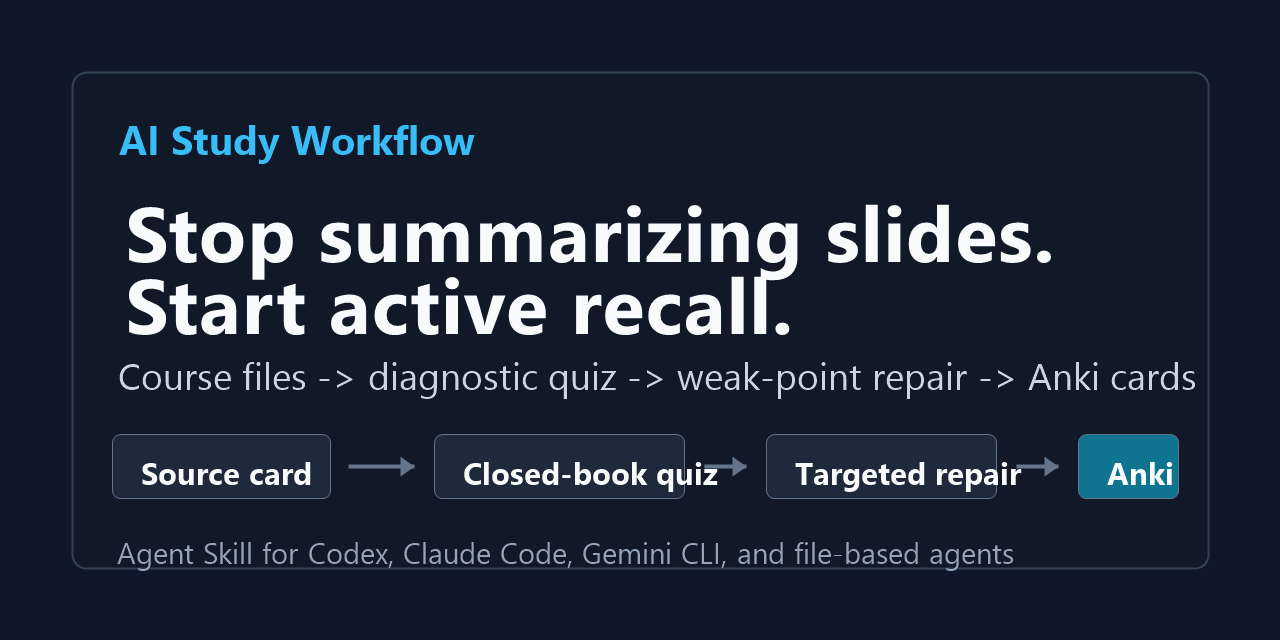
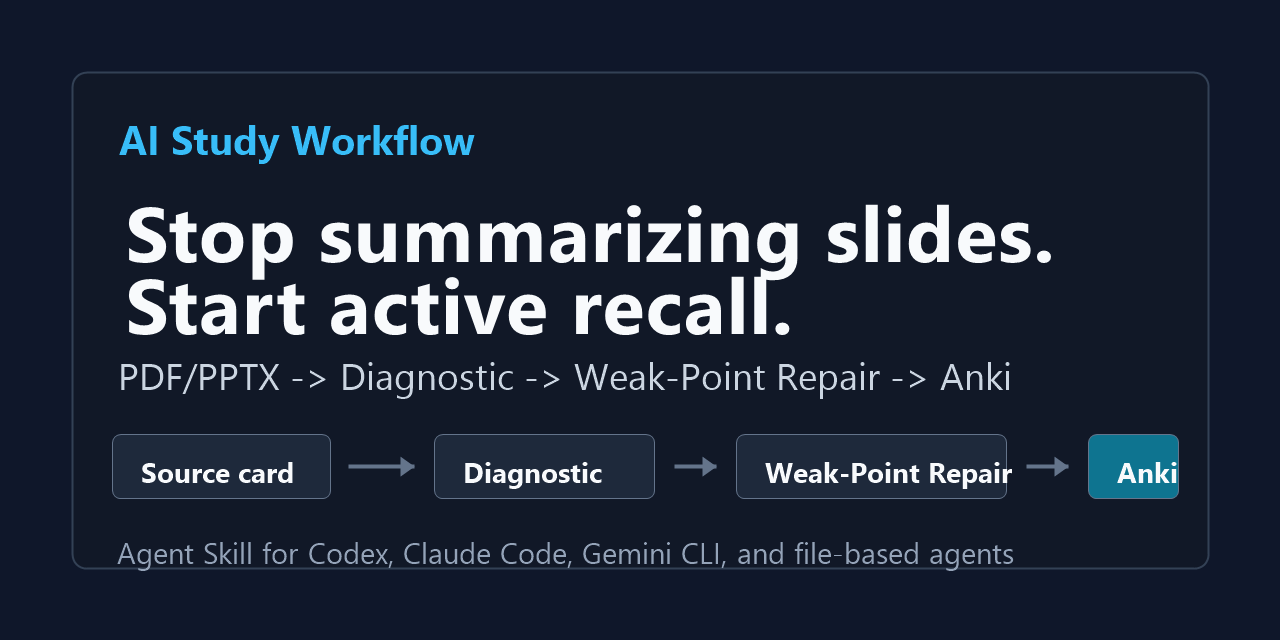
Refine open source onboarding materials

Changed region(s): [[0.0938, 0.5625, 0.9375, 0.625], [0.3438, 0.6875, 0.9375, 0.7812], [0.0938, 0.7188, 0.25, 0.7812]]

diff --git a/README.md b/README.md
@@ -4,9 +4,9 @@
 ![License](https://img.shields.io/github/license/rhyme17/ai-study-workflow)
 ![Status](https://img.shields.io/badge/status-experimental-orange)
 
-Turn lecture slides and PDFs into active-recall study sessions: diagnostic quiz first, weak-point repair second, Anki cards last.
+Turn lecture PDFs and PPTX files into closed-book diagnostics, targeted weak-point repair, and Anki cards.
 
-把课件/PDF 变成一套主动回忆复习流程：先闭卷诊断，再定位薄弱点，最后生成 Anki 卡片。
+把课件和 PDF 变成闭卷诊断、薄弱点补强和 Anki 卡片。
 
 ## Why This Exists
 
@@ -15,16 +15,44 @@ Most students ask AI to summarize lecture slides. That feels productive, but it 
 AI Study Workflow is an agent skill that makes the student answer first. It inspects course files, creates a closed-book diagnostic, waits for the student's answers, grades strictly, repairs weak points, and turns real mistakes into spaced-repetition cards.
 
 ```text
-source inspection -> mode choice -> closed-book diagnostic -> grading -> weak-point repair -> Anki cards
+source inspection -> closed-book diagnostic -> grading feedback -> weak-point repair -> Anki cards
+```
+
+It is not a generic "summarize my PPT" prompt. The default flow is active recall: the agent asks questions first, withholds answers, grades the student's attempt, and only then explains or generates cards.
+
+## 30-Second Start
+
+Attach a course PDF/PPTX and say:
+
+```text
+Use ai-study-workflow. Inspect the source first. Then give me a 10-minute closed-book diagnostic. Do not reveal answers until I respond.
+```
+
+中文：
+
+```text
+使用 ai-study-workflow。先检查课程 PDF/PPTX，再给我 10 分钟闭卷诊断题。不要在我回答前公布答案。
 ```
 
 ## Who Is This For?
 
-- Students who use AI to review lecture slides or PDFs.
-- People preparing for finals, quizzes, retakes, or certification exams.
-- Learners who want active recall instead of passive summaries.
+- Students reviewing lecture slides, PDFs, or course notes.
+- People preparing for finals or closed-book exams.
 - Users of Codex, Claude Code, Gemini CLI, or other file-based agents.
-- Anyone building reusable agent skills for study workflows.
+- Learners who want active recall instead of passive summaries.
+- People who want Anki-ready cards after diagnosis and correction.
+
+## Project Status
+
+This is an experimental but usable workflow for AI-assisted studying. It is designed for iterative use with real course materials and should be checked against the original source when content is visual, formula-heavy, or ambiguous.
+
+## Example Output
+
+See:
+
+- [Demo review session](examples/demo-review-session.md)
+- [Anki output example](examples/anki-output-example.csv)
+- [Reusable prompts](examples/prompts.md)
 
 ## Demo
 
@@ -82,8 +110,6 @@ card candidates:
 - back: When another link, sender/receiver limit, congestion, or protocol overhead becomes the bottleneck.
 ```
 
-See [examples/demo-review-session.md](examples/demo-review-session.md) for a complete example and [examples/anki-output-example.csv](examples/anki-output-example.csv) for sample card output.
-
 ## What It Does
 
 - Inspects PPTX and PDF course material before generating study content.
@@ -92,27 +118,6 @@ See [examples/demo-review-session.md](examples/demo-review-session.md) for a com
 - Supports new knowledge learning with prerequisite checks and chunked tutoring.
 - Generates targeted drills, mistake taxonomies, and Anki-ready CSV files.
 - Renders PPTX slides or PDF pages to PNG when visual inspection is needed.
-
-## Quick Start
-
-Use this prompt with an attached or local course file:
-
-```text
-Use ai-study-workflow. Read the course file first.
-Start with a source card, then let me choose new learning, exam review, or material generation.
-If I do not specify a mode, default to exam review and give me a 10-minute closed-book diagnostic.
-Do not show answers until I respond.
-```
-
-中文提示词：
-
-```text
-使用 ai-study-workflow，读取我提供的课程文件。
-先做资料卡，说明可用文本、需要看图的页、可能不可靠的地方。
-然后给我三种选择：新知识学习、期末复习、生成材料。
-如果我没有特别说明，默认选择期末复习，先给 10 分钟闭卷诊断题。
-不要给答案，等我回答后再评分和安排下一步。
-```
 
 ## Install and Use
 
@@ -201,6 +206,12 @@ After editing the canonical skill under `skills/ai-study-workflow`, sync the Cod
 ```powershell
 powershell -ExecutionPolicy Bypass -File scripts/sync-agent-skills.ps1
 ```
+
+## Version
+
+Current prepared public version: `v0.1.0`.
+
+See [CHANGELOG.md](CHANGELOG.md) for release notes and [docs/repository-settings.md](docs/repository-settings.md) for recommended GitHub metadata, topics, and social preview settings.
 
 ## License
 

diff --git a/docs/repository-settings.md b/docs/repository-settings.md
@@ -1,0 +1,68 @@
+# Recommended Repository Settings
+
+These settings help the project communicate its value clearly on GitHub.
+
+## Description
+
+```text
+Active-recall AI study workflow for course PDFs/PPTX, final review, diagnostics, weak-point repair, and Anki cards.
+```
+
+## Topics
+
+```text
+ai-study
+active-recall
+spaced-repetition
+anki
+exam-review
+university
+agent-skills
+codex
+claude-code
+gemini-cli
+pdf
+pptx
+```
+
+## Website
+
+```text
+https://github.com/rhyme17/ai-study-workflow#readme
+```
+
+## Social Preview
+
+Use a simple cover image with this message:
+
+```text
+AI Study Workflow
+PDF/PPTX -> Diagnostic -> Weak-Point Repair -> Anki
+```
+
+Suggested asset in this repository:
+
+```text
+assets/social-preview.png
+```
+
+## Release
+
+Prepare a `v0.1.0` release with this title:
+
+```text
+v0.1.0 - Initial active-recall study workflow
+```
+
+Suggested release notes:
+
+```text
+Initial public version of ai-study-workflow.
+
+- Reusable AI study workflow skill.
+- Source inspection workflow for PDFs/PPTX.
+- Closed-book diagnostic flow.
+- Weak-point repair flow.
+- Anki CSV generation guidance.
+- Examples and usage guide.
+```

diff --git a/examples/prompts.md b/examples/prompts.md
@@ -3,10 +3,7 @@
 ## Fast Entry
 
 ```text
-Use ai-study-workflow. Read the course file first.
-Start with a source card, then let me choose new learning, exam review, or material generation.
-If I do not specify a mode, default to exam review and give me a 10-minute closed-book diagnostic.
-Do not show answers until I respond.
+Use ai-study-workflow. Inspect the source first. Then give me a 10-minute closed-book diagnostic. Do not reveal answers until I respond.
 ```
 
 ## 期末复习

diff --git a/CHANGELOG.md b/CHANGELOG.md
@@ -1,0 +1,12 @@
+# Changelog
+
+## v0.1.0
+
+Initial public version of ai-study-workflow.
+
+- Added reusable AI study workflow skill.
+- Added source inspection workflow for PDFs/PPTX.
+- Added closed-book diagnostic flow.
+- Added weak-point repair flow.
+- Added Anki CSV generation guidance.
+- Added examples and usage guide.
